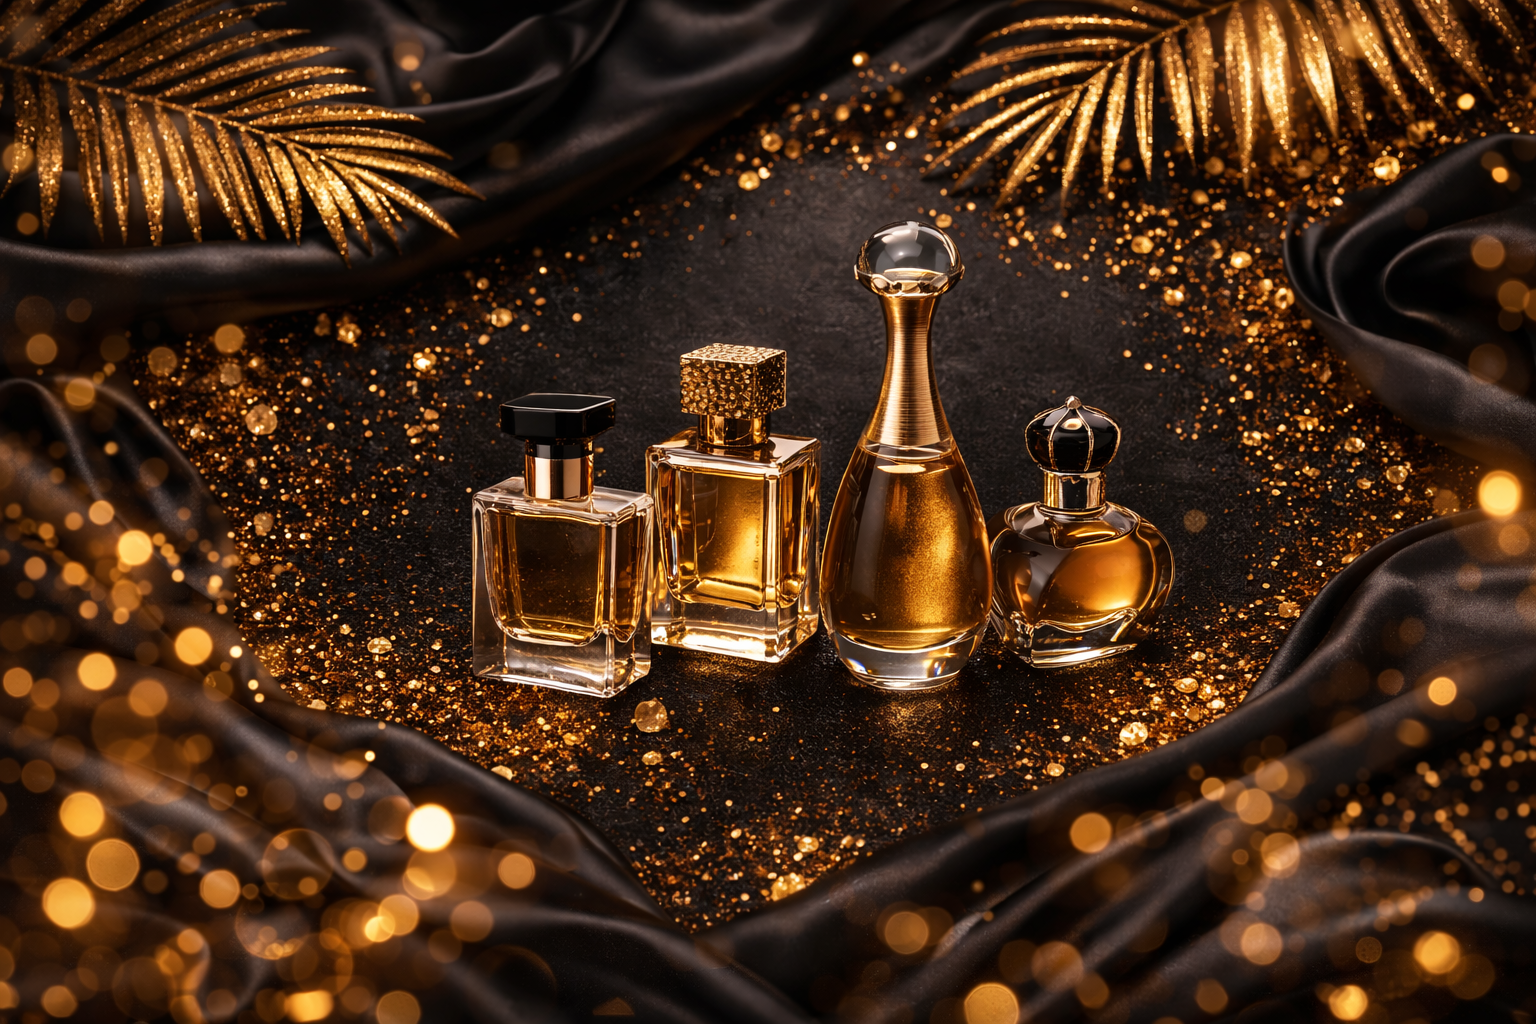
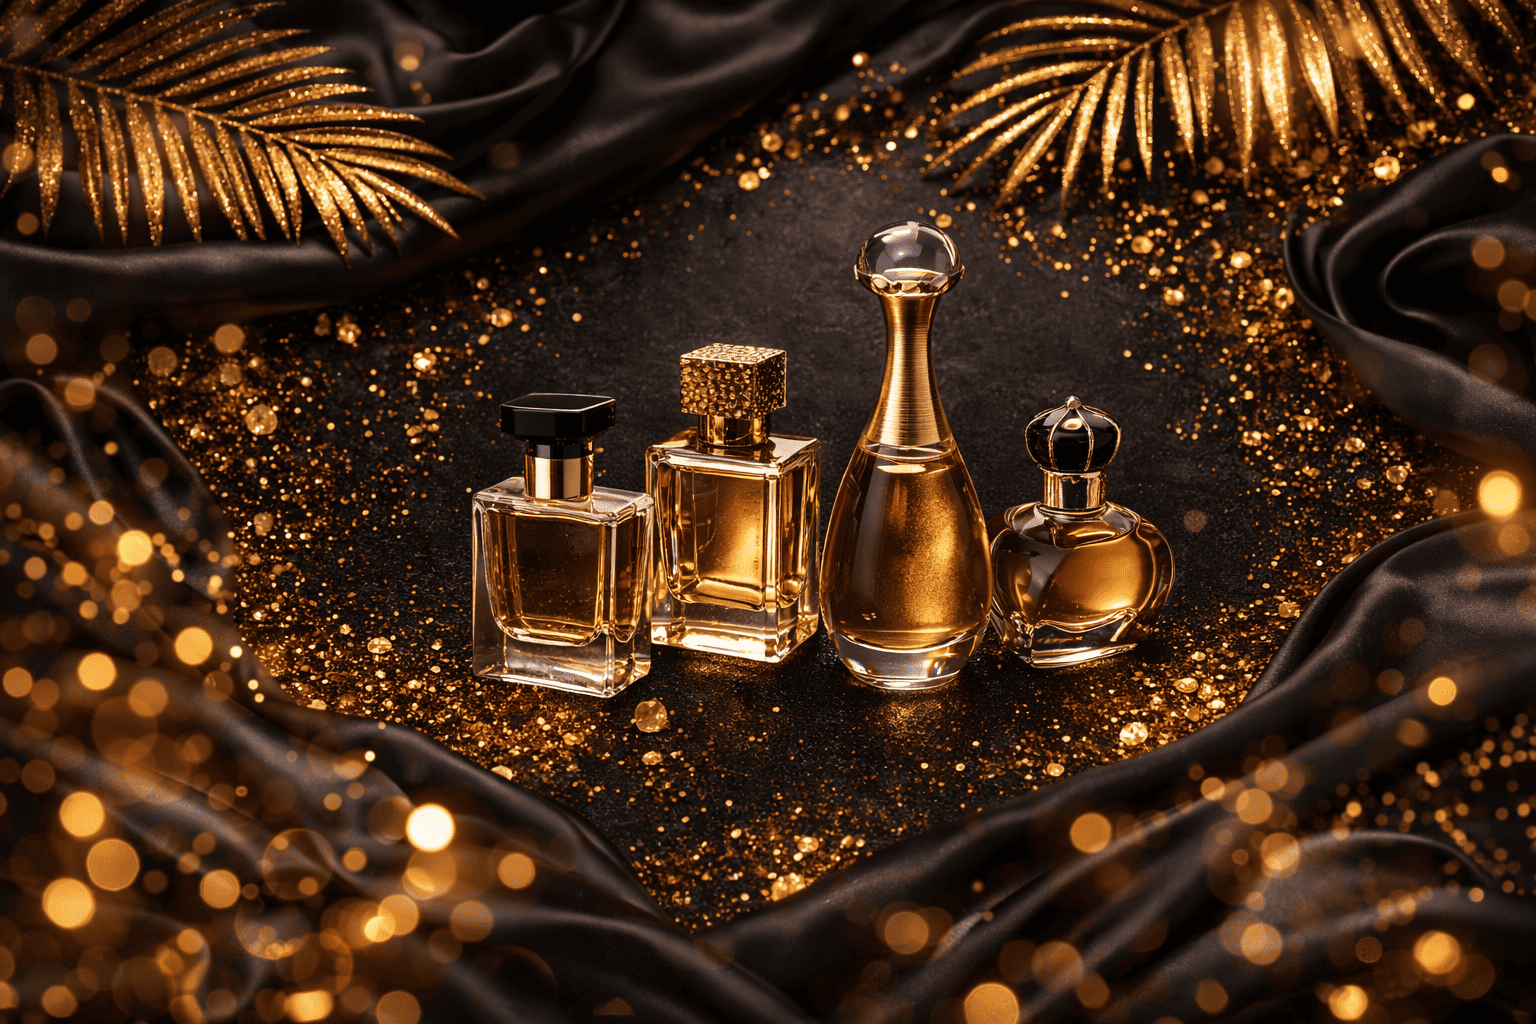
Mise à jour du site et corrections

diff --git a/templates/base.html b/templates/base.html
@@ -9,6 +9,9 @@
     <script src="https://cdn.tailwindcss.com"></script>
     <link href="https://fonts.googleapis.com/css2?family=Playfair+Display:ital,wght@0,400;0,600;0,700;1,400&family=Montserrat:wght@300;400;500;600&display=swap" rel="stylesheet">
     <link rel="stylesheet" href="https://cdnjs.cloudflare.com/ajax/libs/font-awesome/6.4.0/css/all.min.css">
+    <!-- Préchargement prioritaire de l'image de fond pour éviter le retard d'affichage -->
+    <link rel="preload" href="/static/img/bg.png" as="image">
+
     <style>
         * {
             margin: 0;
@@ -283,7 +286,6 @@
         }
 
         .logo-img {
-            height: 40px;
             width: auto;
             object-fit: contain;
             transition: transform 0.3s ease;
@@ -305,8 +307,8 @@
         
 /* Hero Section */
         .hero-section {
-            background: linear-gradient(135deg, rgba(26, 26, 26, 0.75) 0%, rgba(45, 45, 45, 0.75) 100%),
-                        url('/static/img/bg.png');
+            background-color: #1a1a1a;
+            background-image: url('/static/img/bg.png');
             background-size: cover;
             background-position: center;
             background-repeat: no-repeat;
@@ -317,7 +319,27 @@
             text-align: center;
             color: white;
             border-bottom: 3px solid #d4af37;
-            min-height: auto;
+            min-height: 60vh; /* Hauteur minimum garantie sur mobile (60% de l'écran) */
+            display: flex;
+            flex-direction: column;
+            justify-content: center;
+        }
+
+        /* Overlay Dégradé (Séparé pour éviter les bugs de taille sur mobile) */
+        .hero-section::before {
+            content: '';
+            position: absolute;
+            top: 0;
+            left: 0;
+            width: 100%;
+            height: 100%;
+            background: linear-gradient(135deg, rgba(26, 26, 26, 0.75) 0%, rgba(45, 45, 45, 0.75) 100%);
+            z-index: 1;
+        }
+
+        /* S'assurer que les éléments décoratifs (emojis) sont au-dessus du dégradé */
+        .hero-section > .absolute {
+            z-index: 2;
         }
 
         @media (min-width: 640px) {
@@ -335,7 +357,7 @@
 
         .hero-content {
             position: relative;
-            z-index: 2;
+            z-index: 10; /* Contenu toujours au premier plan */
             max-width: 800px;
             margin: 0 auto;
         }

diff --git a/templates/home.html b/templates/home.html
@@ -15,7 +15,7 @@
             ✦ Bienvenue chez ✦
         </p>
         <img src="/static/img/logo.png" alt="KATAUPARFUM" class="logo-img mx-auto mb-1 sm:mb-1 h-48 sm:h-80">
-        <p class="hero-section p">
+        <p>
             Retrouvez la signature olfactive de vos parfums de créateurs préférés. 
             Nos essences sont des <strong>inspirations fidèles</strong> offrant la même intensité et tenue que les grandes maisons, 
             pour un luxe enfin accessible.
